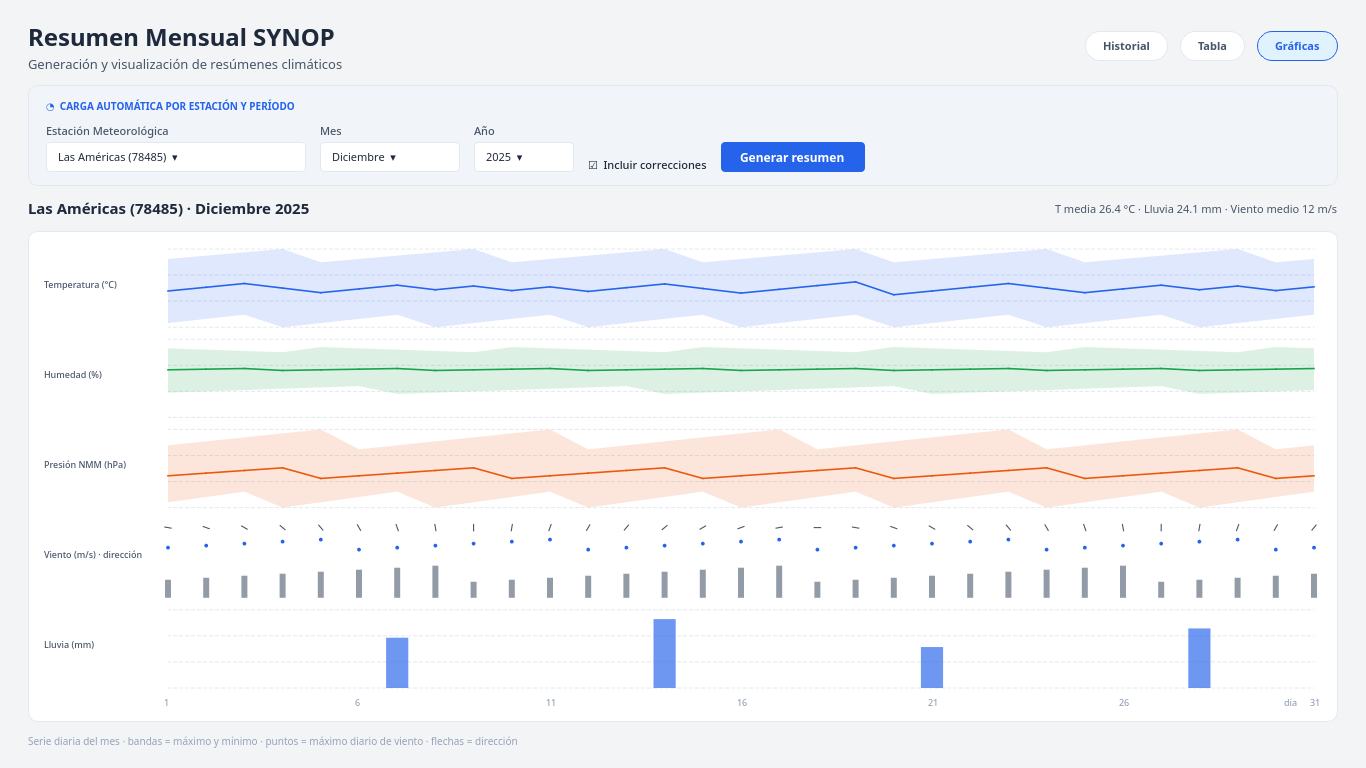
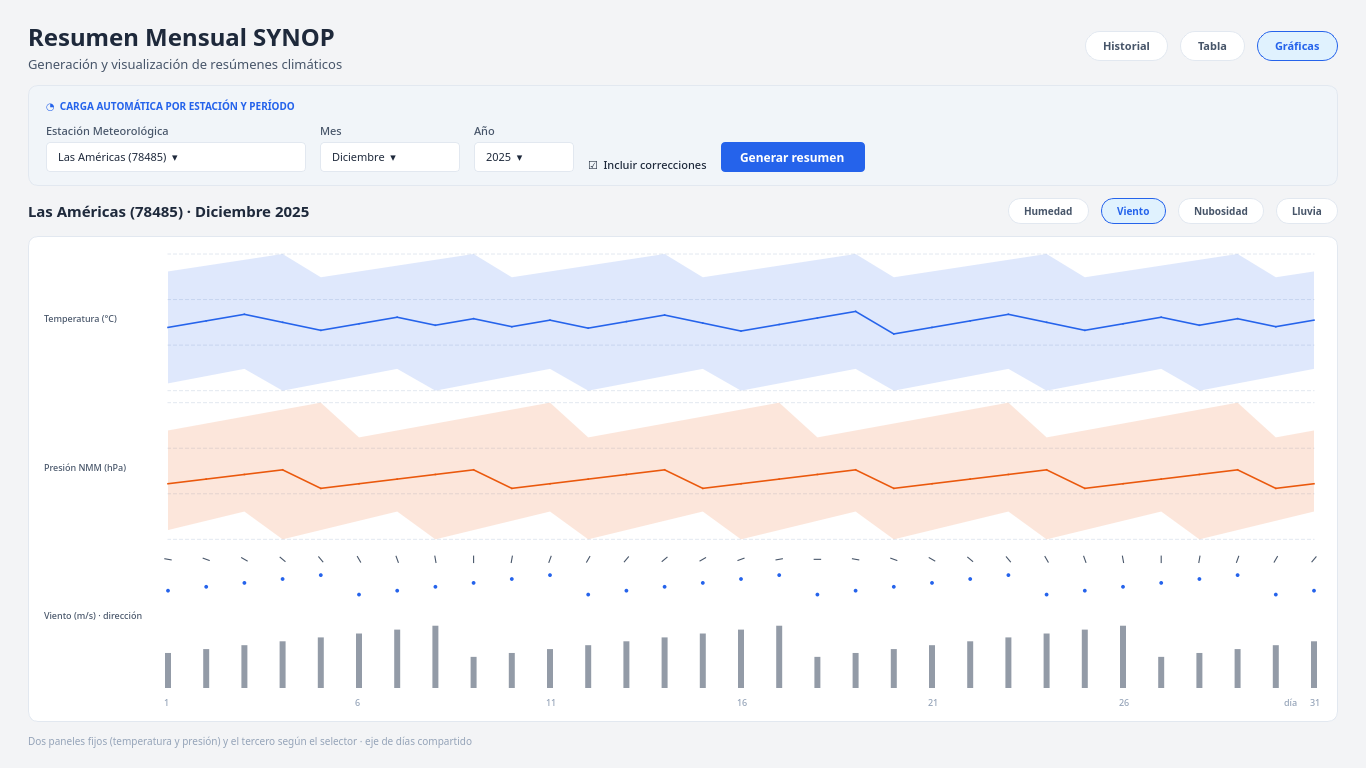
feat(diseno): meteograma en su forma definitiva (tres paneles + selector)
Decisión del dueño: la variante B. Dos paneles fijos —temperatura con su banda
máx/mín y presión NMM— y un tercero conmutable por un selector de pastillas
entre Humedad, Viento, Nubosidad y Lluvia.

Se descarta y se borra la variante de cinco paneles: cada fila quedaba muy
baja y tener las dos versiones en la carpeta confundía. Su builder también sale
del script, así que el render no la vuelve a generar.

§5.6 de docs/DISENO_OMS.md reescrita con la forma elegida, las reglas del
dibujo y las dos alternativas descartadas (cinco paneles y doble eje).

diff --git a/tools/mockup_pantallas.py b/tools/mockup_pantallas.py
@@ -1960,10 +1960,16 @@ def _series_resumen() -> dict[str, list[float]]:
 class _Meteograma(QWidget):
     """Cinco paneles diarios con el eje de tiempo compartido."""
 
-    def __init__(self, paleta: dict, series: dict[str, list[float]]) -> None:
+    def __init__(
+        self,
+        paleta: dict,
+        series: dict[str, list[float]],
+        paneles: tuple | None = None,
+    ) -> None:
         super().__init__()
         self.p = paleta
         self.s = series
+        self.paneles = paneles
 
     def _panel_viento(self, painter, x0, y0, ancho, alto) -> None:
         """Barras de velocidad media, punto del máximo y flechas de dirección.
@@ -2102,7 +2108,7 @@ class _Meteograma(QWidget):
         painter.fillRect(self.rect(), QColor(self.p["superficie"]))
 
         izq, der, arriba, abajo, hueco = 132, 16, 10, 26, 12
-        paneles = (
+        paneles = self.paneles or (
             ("Temperatura (°C)", "tmed", self.p["acento"],
              {"banda": (self.s["tmax"], self.s["tmin"])}),
             ("Humedad (%)", "hummed", self.p["ok"],
@@ -2142,7 +2148,20 @@ class _Meteograma(QWidget):
         painter.end()
 
 
-def pantalla_summary_graficas(p: dict) -> QWidget:
+#: Paneles de la variante B: dos fijos y uno conmutable.
+PANELES_B = {
+    "humedad": ("Humedad (%)", "hummed", "ok",
+                {"banda": ("hummax", "hummin"), "minimo": 40, "maximo": 100}),
+    "viento": ("Viento (m/s) · dirección", "vel", "suave", {"viento": True}),
+    "nubosidad": ("Nubosidad (octavos)", "nubmed", "violeta",
+                  {"banda": ("nubdia", "nubnoche"), "minimo": 0, "maximo": 8}),
+    "lluvia": ("Lluvia (mm)", "lluvia", "acento",
+               {"barras": True, "minimo": 0}),
+}
+
+
+def pantalla_summary_graficas_b(p: dict, variable: str = "viento") -> QWidget:
+    """Meteograma del Resumen: dos paneles fijos y el tercero con selector."""
     pagina = QWidget()
     pagina.setObjectName("pagina")
     pagina.setStyleSheet(f"QWidget#pagina {{ background:{p['fondo']}; }}")
@@ -2150,7 +2169,6 @@ def pantalla_summary_graficas(p: dict) -> QWidget:
     v.setContentsMargins(28, 20, 28, 20)
     v.setSpacing(12)
 
-    # cabecera con las tres pastillas, Gráficas activa
     fila = QHBoxLayout()
     titulos = QVBoxLayout()
     titulos.setSpacing(2)
@@ -2184,11 +2202,40 @@ def pantalla_summary_graficas(p: dict) -> QWidget:
     nombre.setStyleSheet(f"color:{p['texto']};background:transparent;")
     meta.addWidget(nombre)
     meta.addStretch(1)
-    resumen = QLabel("T media 26.4 °C · Lluvia 24.1 mm · Viento medio 12 m/s")
-    resumen.setFont(ui(11))
-    resumen.setStyleSheet(f"color:{p['suave']};background:transparent;")
-    meta.addWidget(resumen)
+    # selector de la tercera variable
+    for clave, etiqueta in (
+        ("humedad", "Humedad"), ("viento", "Viento"),
+        ("nubosidad", "Nubosidad"), ("lluvia", "Lluvia"),
+    ):
+        activo = clave == variable
+        pill = QLabel(etiqueta)
+        pill.setFont(ui(10, 700))
+        pill.setFixedHeight(26)
+        pill.setStyleSheet(
+            f"background:{p['acento_suave'] if activo else p['superficie']};"
+            f"color:{p['acento'] if activo else p['suave']};"
+            f"border:1px solid {p['acento'] if activo else p['borde']};"
+            "border-radius:13px;padding:0 12px;"
+        )
+        meta.addWidget(pill)
     v.addLayout(meta)
+
+    series = _series_resumen()
+    # el espec del tercer panel resuelve los nombres de serie a listas
+    titulo3, clave3, rol3, opciones3 = PANELES_B[variable]
+    opciones3 = {
+        k: (series[v] if isinstance(v, str) else v) for k, v in opciones3.items()
+    } if "banda" not in opciones3 else {
+        **{k: v for k, v in opciones3.items() if k != "banda"},
+        "banda": tuple(series[n] for n in opciones3["banda"]),
+    }
+    paneles = (
+        ("Temperatura (°C)", "tmed", p["acento"],
+         {"banda": (series["tmax"], series["tmin"])}),
+        ("Presión NMM (hPa)", "pmed", p["naranja"],
+         {"banda": (series["pmax"], series["pmin"])}),
+        (titulo3, clave3, p[rol3], opciones3),
+    )
 
     tarjeta = QWidget()
     tarjeta.setObjectName("meteoC")
@@ -2198,12 +2245,12 @@ def pantalla_summary_graficas(p: dict) -> QWidget:
     )
     tv = QVBoxLayout(tarjeta)
     tv.setContentsMargins(8, 8, 8, 8)
-    tv.addWidget(_Meteograma(p, _series_resumen()))
+    tv.addWidget(_Meteograma(p, series, paneles))
     v.addWidget(tarjeta, 1)
 
     pie = QLabel(
-        "Serie diaria del mes · bandas = máximo y mínimo · puntos = máximo diario de viento · "
-        "flechas = dirección"
+        "Dos paneles fijos (temperatura y presión) y el tercero según el selector · "
+        "eje de días compartido"
     )
     pie.setFont(ui(10))
     pie.setStyleSheet(f"color:{p['tenue']};background:transparent;")
@@ -2237,7 +2284,7 @@ def main() -> int:
             ("audit", "audit-reporte", pantalla_audit_reporte),
             ("summary", "summary-tabla", pantalla_summary_tabla),
             ("summary", "summary-historial", pantalla_summary_historial),
-            ("summary", "summary-graficas", pantalla_summary_graficas),
+            ("summary", "summary-graficas", pantalla_summary_graficas_b),
         ):
             w = constructor(paleta)
             w.resize(QSize(ANCHO, ALTO))

diff --git a/docs/DISENO_OMS.md b/docs/DISENO_OMS.md
@@ -146,13 +146,18 @@ humedad relativa y presión.
 El Resumen Mensual son datos **diarios** (1..31), así que cada panel es una serie de 31
 puntos con un solo eje de días al pie.
 
+**Forma elegida: tres paneles.** Dos fijos y un tercero conmutable por un selector de
+pastillas sobre el gráfico.
+
 | Fila | Dibujo | Variables del Resumen |
 |---|---|---|
-| Temperatura (°C) | banda de máx/mín + línea de la media | Mayor temperatura máxima · Menor temperatura minima · Media temperatura |
-| Humedad (%) | banda máx/mín + línea de la media | Humedad maxima · Humedad minima · Humedad media |
-| Presión NMM (hPa) | banda máx/mín + línea de la media; la de estación punteada | MAxima/Minima/Media presión nivel medio del mar · Media presion en la estación |
-| Viento (m/s) · dirección | barras de la media, puntos del máximo diario y **flechas en franja propia arriba** | Velocidad media · Velocidad máxima y direccion · Dirección del viento |
-| Lluvia (mm) | barras | Lluvia |
+| Temperatura (°C) — fija | banda de máx/mín + línea de la media | Mayor temperatura máxima · Menor temperatura minima · Media temperatura |
+| Presión NMM (hPa) — fija | banda máx/mín + línea de la media | MAxima/Minima/Media presión nivel medio del mar |
+| Tercer panel — selector | según la variable activa | ver abajo |
+
+Selector del tercer panel: `Humedad` (banda máx/mín + media) · `Viento` (barras de la
+media, puntos del máximo diario y flechas de dirección) · `Nubosidad` (banda día/noche con
+la media) · `Lluvia` (barras).
 
 Reglas:
 
@@ -162,8 +167,10 @@ Reglas:
   `borde` punteado.
 - **Las flechas de dirección nunca van al pie del panel**: las tapan las barras. Van en su
   propia franja, arriba.
-- Fuera de esta primera versión, por decisión del dueño: nubosidad día/noche/media, punto
-  de rocío y tensión de vapor. Entran después como líneas o banda fina sin cambiar el panel set.
+- Descartada la variante de cinco paneles (todo visible pero cada fila muy baja) y la de un
+  único gráfico con doble eje (dos escalas en el mismo plano invitan a leer correlaciones
+  falsas).
+- Fuera por ahora: punto de rocío y tensión de vapor.
 
 ## 6. Reglas por pantalla
 
